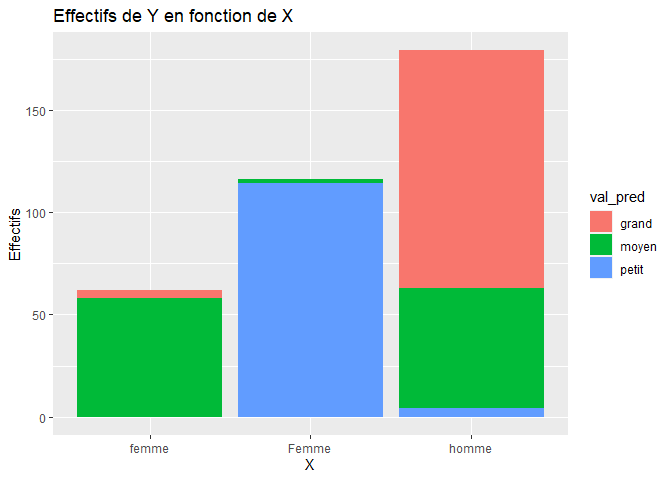
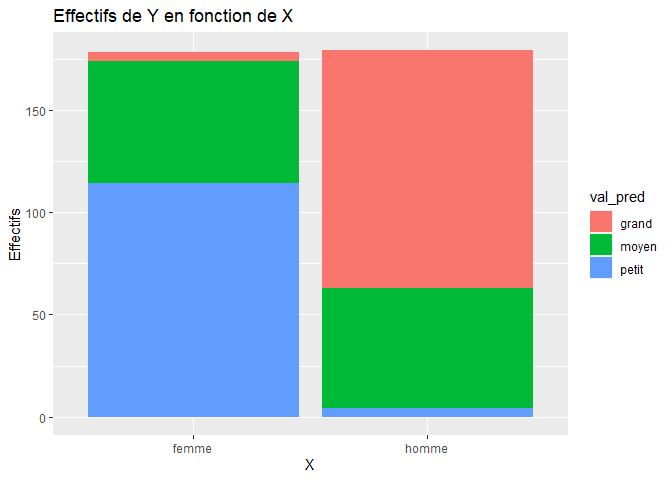
df_test modified et knit

diff --git a/README.md b/README.md
@@ -89,22 +89,20 @@ made either in rows or in columns.
 tab.quali.ligne(df_test$val_pred,df_test$sexe)
 ```
 
-    ##            grand      moyen      petit Total Effectif
-    ## femme 0.06451613 0.93548387 0.00000000     1       62
-    ## Femme 0.00000000 0.01724138 0.98275862     1      116
-    ## homme 0.64804469 0.32960894 0.02234637     1      179
-    ## Sum   0.33613445 0.33333333 0.33053221     1      357
+    ##            grand     moyen      petit Total Effectif
+    ## femme 0.02247191 0.3370787 0.64044944     1      178
+    ## homme 0.64804469 0.3296089 0.02234637     1      179
+    ## Sum   0.33613445 0.3333333 0.33053221     1      357
 
 ``` r
 tab.quali.col(df_test$val_pred,df_test$sexe)
 ```
 
-    ##                 grand        moyen        petit         Sum
-    ## femme      0.03333333   0.48739496   0.00000000   0.1736695
-    ## Femme      0.00000000   0.01680672   0.96610169   0.3249300
-    ## homme      0.96666667   0.49579832   0.03389831   0.5014006
-    ## Total      1.00000000   1.00000000   1.00000000   1.0000000
-    ## Effectif 120.00000000 119.00000000 118.00000000 357.0000000
+    ##                 grand       moyen        petit         Sum
+    ## femme      0.03333333   0.5042017   0.96610169   0.4985994
+    ## homme      0.96666667   0.4957983   0.03389831   0.5014006
+    ## Total      1.00000000   1.0000000   1.00000000   1.0000000
+    ## Effectif 120.00000000 119.0000000 118.00000000 357.0000000
 
 We can also perform a Chi-Square Independence Test as well as calculate
 Cramer’s V, which is a measure derived from Chi-Square. These results
@@ -121,13 +119,13 @@ khi2(df_test$sexe,df_test$val_pred)
     ##  Pearson's Chi-squared test
     ## 
     ## data:  tableau
-    ## X-squared = 427.85, df = 4, p-value < 2.2e-16
+    ## X-squared = 207.08, df = 2, p-value < 2.2e-16
 
 ``` r
 vcramer(df_test$sexe,df_test$val_pred)
 ```
 
-    ## [1] 0.774098
+    ## [1] 0.7616195
 
 Next, we will approach the case of **quantitative variables**.
 
@@ -191,11 +189,10 @@ resCluster(data,df_test$val_pred,"grand")
     ## sport$basket       6.795126  6.162465 18.333333
     ## sport$foot         6.739522 33.053221 56.666667
     ## val_parent$moyen  -4.817785 27.731092 11.666667
-    ## sexe$femme        -4.973617 17.366947  3.333333
     ## sport$tennis      -5.175690 15.686275  1.666667
-    ## sexe$Femme        -9.314551 32.492997  0.000000
     ## val_parent$petit  -9.733882 34.453782  0.000000
     ## sport$gym        -10.345304 37.254902  0.000000
+    ## sexe$femme       -12.493225 49.859944  3.333333
 
 ## Evaluation metrics
 
